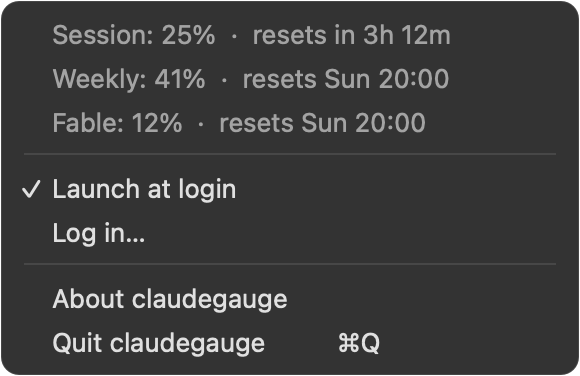
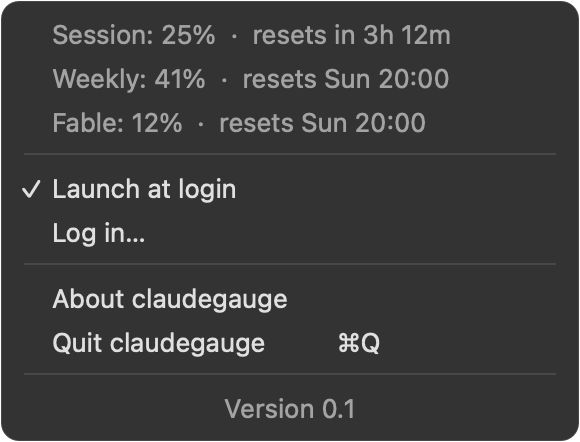
Show centred 'Version 0.1' below Quit, after a separator
Version comes from CFBundleShortVersionString, now 0.1.

diff --git a/ClaudeGauge/StatusMenu.swift b/ClaudeGauge/StatusMenu.swift
@@ -64,6 +64,36 @@ final class StatusMenu: NSObject, NSMenuDelegate {
         let quitItem = NSMenuItem(title: "Quit claudegauge", action: #selector(quit), keyEquivalent: "q")
         quitItem.target = self
         menu.addItem(quitItem)
+        menu.addItem(.separator())
+        menu.addItem(Self.versionItem(Self.versionText()))
+    }
+
+    /// "Version 0.1", from the bundle's CFBundleShortVersionString.
+    static func versionText(bundle: Bundle = .main) -> String {
+        let version = bundle.object(forInfoDictionaryKey: "CFBundleShortVersionString") as? String ?? "?"
+        return "Version \(version)"
+    }
+
+    /// A non-clickable, centred line in the same grey as the disabled usage lines.
+    private static func versionItem(_ text: String) -> NSMenuItem {
+        let label = NSTextField(labelWithString: text)
+        label.font = NSFont.menuFont(ofSize: 0)
+        label.textColor = .disabledControlTextColor
+        label.alignment = .center
+        label.translatesAutoresizingMaskIntoConstraints = false
+
+        let container = NSView(frame: NSRect(x: 0, y: 0, width: 160, height: 22))
+        container.autoresizingMask = [.width]
+        container.addSubview(label)
+        NSLayoutConstraint.activate([
+            label.centerXAnchor.constraint(equalTo: container.centerXAnchor),
+            label.centerYAnchor.constraint(equalTo: container.centerYAnchor),
+        ])
+
+        let item = NSMenuItem()
+        item.view = container
+        item.isEnabled = false
+        return item
     }
 
     private static func needsAttention(_ state: GaugeState) -> Bool {

diff --git a/tools/readme-images.swift b/tools/readme-images.swift
@@ -120,6 +120,8 @@ func menuMock(dark: Bool) -> NSImage {
         ("—", false),
         ("About claudegauge", true),
         ("Quit claudegauge          ⌘Q", true),
+        ("—", false),
+        ("Version 0.1", false),
     ]
     let rowH: CGFloat = 22, sepH: CGFloat = 11, padV: CGFloat = 6
     let height = padV * 2 + lines.reduce(0) { $0 + ($1.0 == "—" ? sepH : rowH) }
@@ -144,7 +146,10 @@ func menuMock(dark: Bool) -> NSImage {
             if text == "Launch at login" {
                 ("✓" as NSString).draw(at: NSPoint(x: 10, y: y + 3), withAttributes: attrs)
             }
-            (text as NSString).draw(at: NSPoint(x: 26, y: y + 3), withAttributes: attrs)
+            let x = text.hasPrefix("Version")
+                ? (width - (text as NSString).size(withAttributes: attrs).width) / 2
+                : 26
+            (text as NSString).draw(at: NSPoint(x: x, y: y + 3), withAttributes: attrs)
         }
     }
 }

diff --git a/ClaudeGaugeTests/StatusMenuTests.swift b/ClaudeGaugeTests/StatusMenuTests.swift
@@ -54,6 +54,11 @@ final class StatusMenuTests: XCTestCase {
         XCTAssertEqual(StatusMenu.statusLines(for: .starting, fable: f, now: now), ["Checking usage…"])
     }
 
+    func testVersionTextComesFromTheAppBundle() {
+        // Unit tests are hosted inside the app, so Bundle.main is ClaudeGauge.app.
+        XCTAssertEqual(StatusMenu.versionText(), "Version 0.1")
+    }
+
     func testAboutOpensProjectOnGitHub() {
         XCTAssertEqual(StatusMenu.projectURL.absoluteString, "https://github.com/rasrenan/claudegauge")
     }
